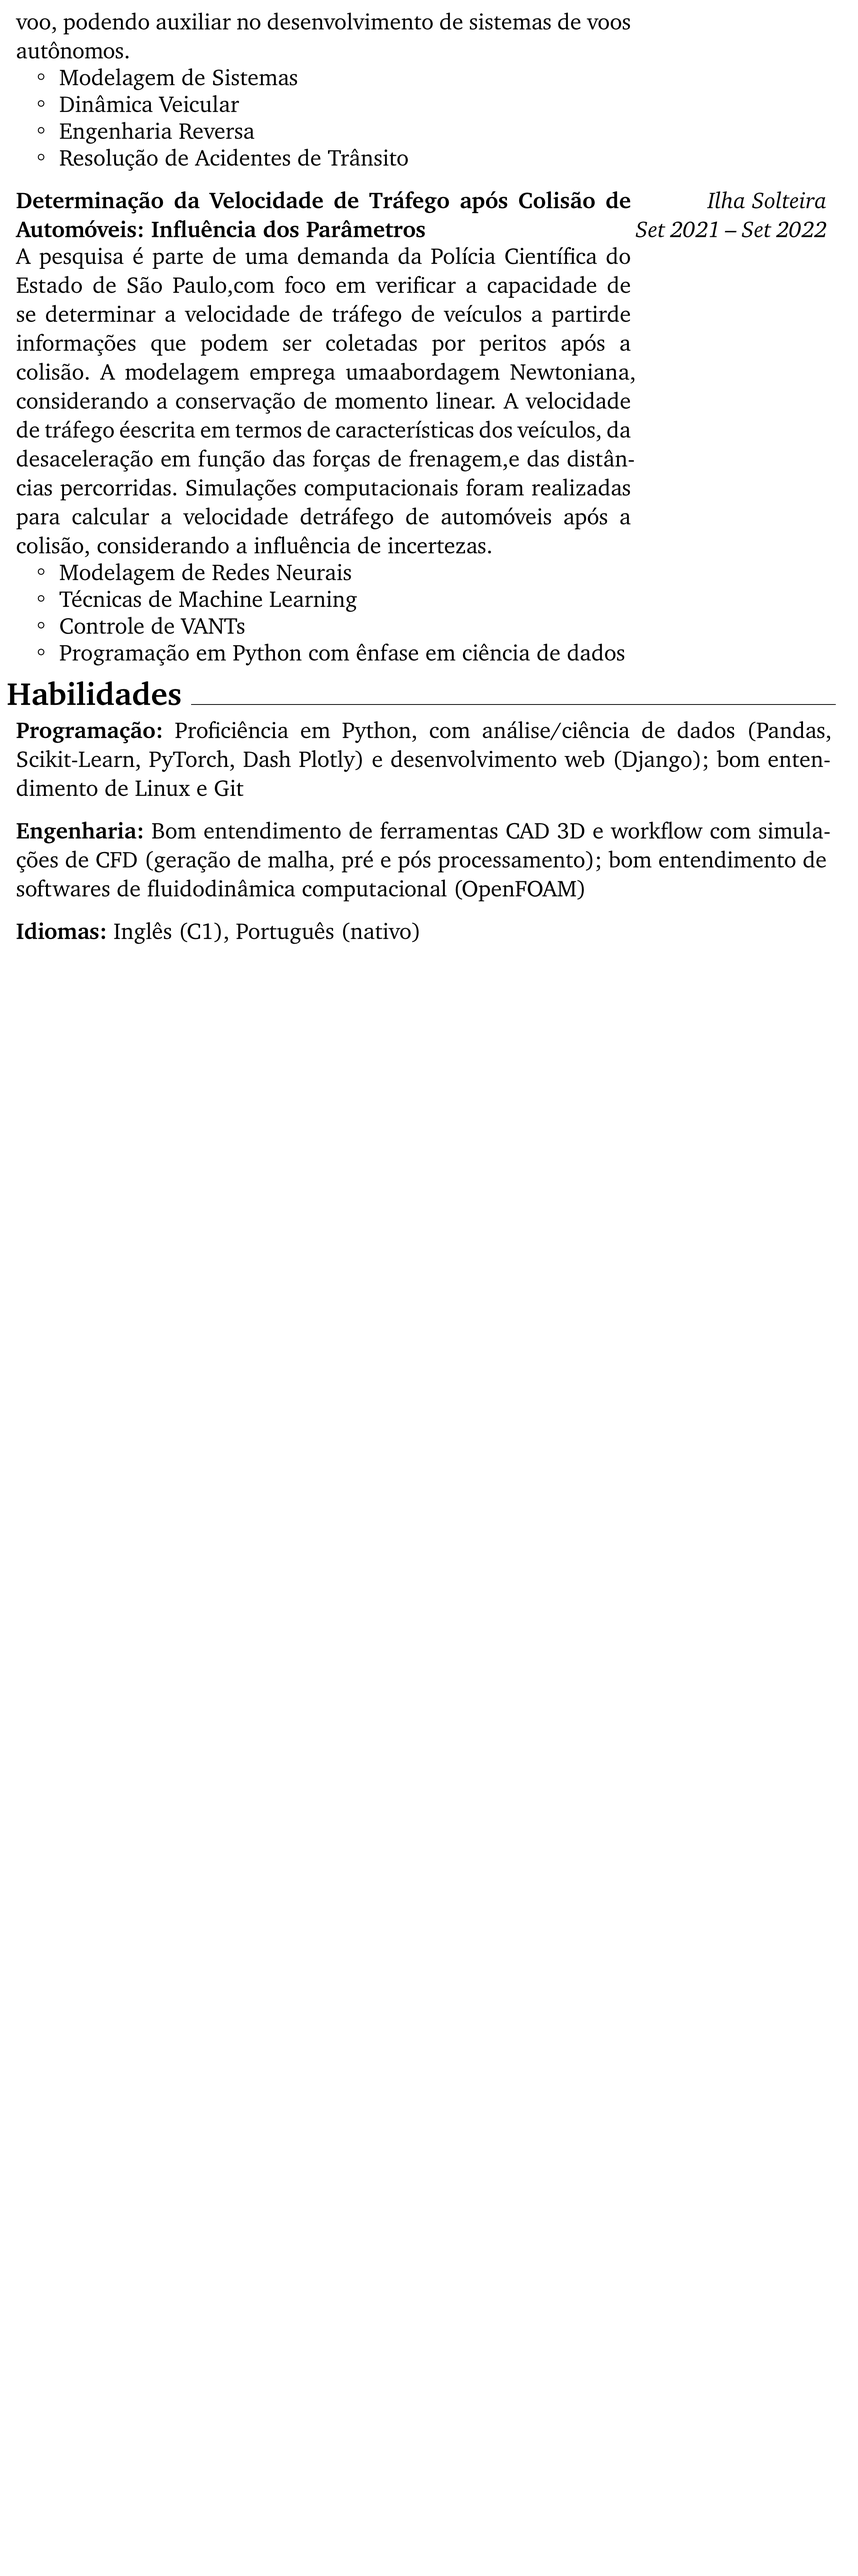
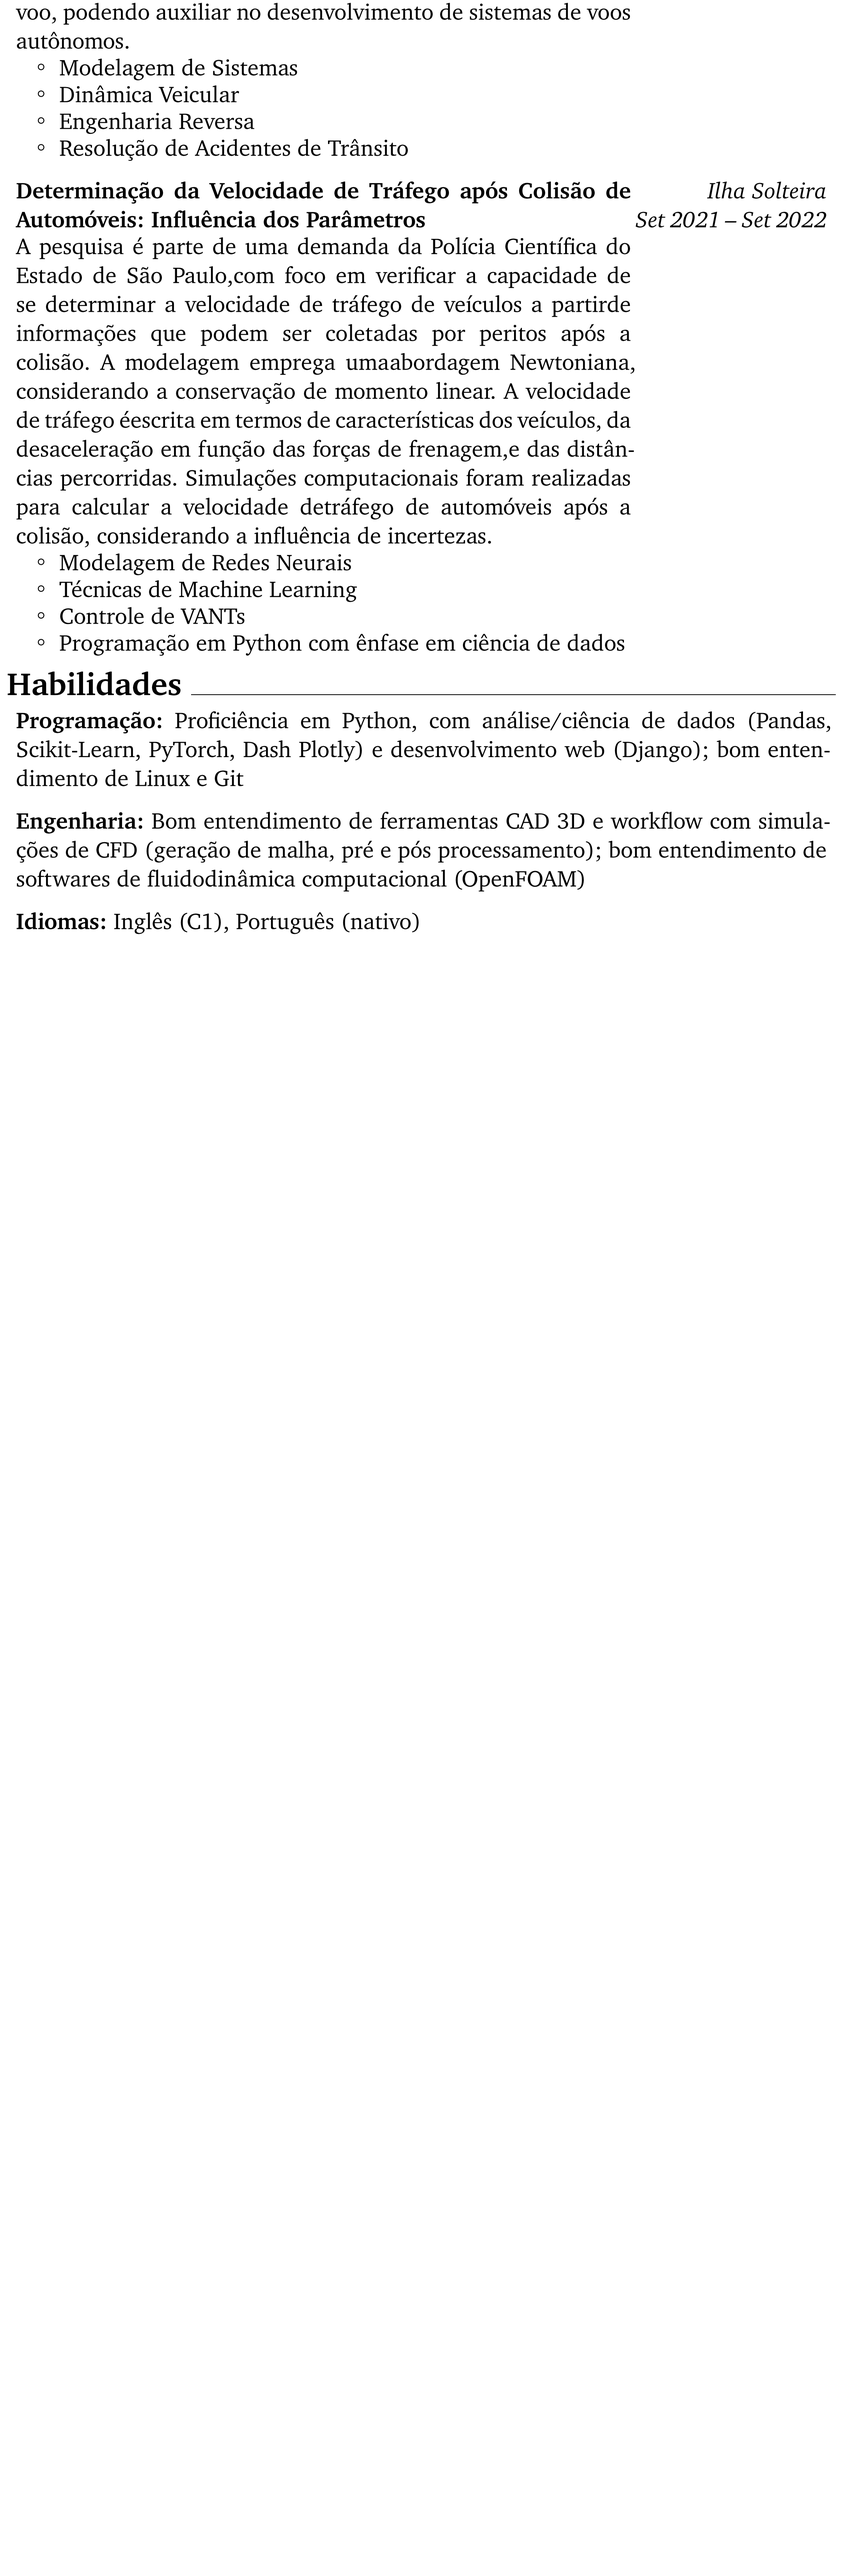
crop adjustment

diff --git a/update_cv.py b/update_cv.py
@@ -27,7 +27,7 @@ def main():
                 IMAGE_RELATIVE_PATH = f"{format}/{file}"
 
                 img = Image.open(IMAGE_RELATIVE_PATH)
-                img = img.crop((1400, 200, 3600, 6800))
+                img = img.crop((1400, 225, 3600, 6800))
                 img.save(IMAGE_RELATIVE_PATH)
 
 
